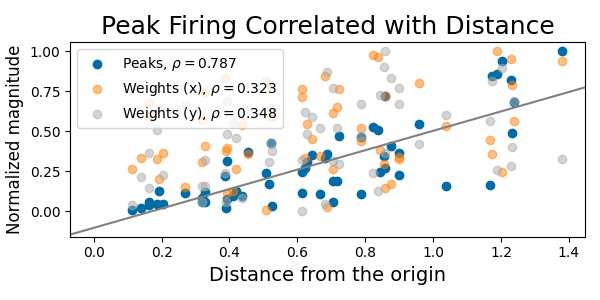
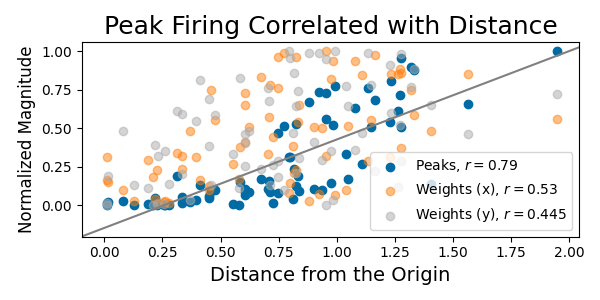
Updated weight figs

diff --git a/analysis.py b/analysis.py
@@ -124,6 +124,10 @@ class Analysis:
         if not hasattr(self, 'stats'):
             self.collect_stats(train_env=train_env)
     
+    def get_weights(self):
+        self.exp.agent.actor.clamp_weights()
+        return self.exp.agent.actor.w1.data.detach()
+    
     def save_retrain_remap(self, path, other_pfs, other_acs, other_pcs):
         self.exp.pfs_per_env |= other_pfs
         self.active_per_env |= other_acs
@@ -173,6 +177,8 @@ class MultiRunAnalysis:
         self.ci95 = self.stds * 1.96 / np.sqrt(len(dfs))
         self.ci95 = self.means.map(frmt) + "$\pm$" + self.ci95.map(frmt)
         self.df = df
+        
+        self.stats = ...
 
     def get_pos_losses(self):
         return np.asarray([exp.pos_losses for exp in self.exps])
@@ -183,12 +189,24 @@ class MultiRunAnalysis:
             for env, loss in exp.pfs_losses.items():
                 losses[env].append(loss)
         return losses
+    
+    def get_weights(self):
+        return torch.stack([anl.get_weights() for anl in self.anls])
+    
+    def print_active_cells(self):
+        raise NotImplementedError()
+    
+    def print_place_cells(self):
+        raise NotImplementedError()
 
 
 class MultiAnalysis:
-    def __init__(self, data_path, exp_names, immediate_pc=False):
-        self.exps = [Experiment.load_experiment(data_path, name) for name in exp_names]
-        self.anls = [Analysis(exp, immediate_pc=immediate_pc) for exp in self.exps]
+    def __init__(self, data_path, exp_names, immediate_pc=False, multirun=True):
+        if multirun:
+            self.anls = [MultiRunAnalysis(data_path,  name) for name in exp_names]
+        else:
+            self.exps = [Experiment.load_experiment(data_path, name) for name in exp_names]
+            self.anls = [Analysis(exp, immediate_pc=immediate_pc) for exp in self.exps]
     
     def print_active_cells(self):
         for anl in self.anls:
@@ -202,6 +220,14 @@ class MultiAnalysis:
         return pd.DataFrame({(anl.exp.name, units): values
                              for anl in self.anls
                              for units, values in anl.stats.items()})
+    
+    def nonzero_weights(self, threshold=1e-3):
+        means, stds = list(), list()
+        for anl in self.anls:
+            nonzeros = (anl.get_weights() > threshold).sum(-1)
+            means.append(nonzeros.mean(dtype=float).cpu().item())
+            stds.append(nonzeros.to(torch.float32).std().cpu().item())
+        return means, stds
 
 
 def get_cell_data(exps):
